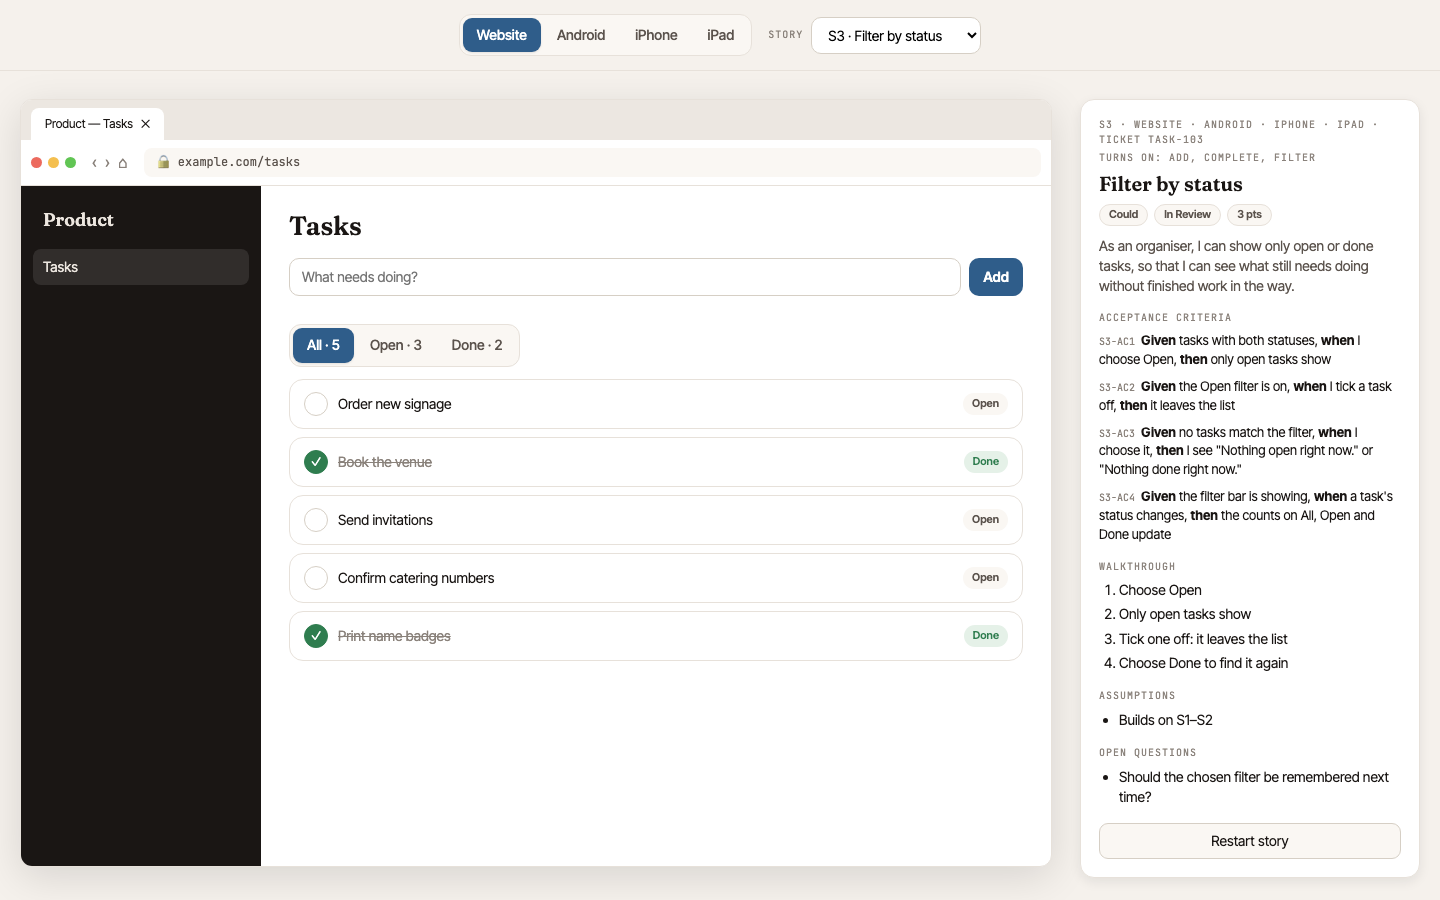
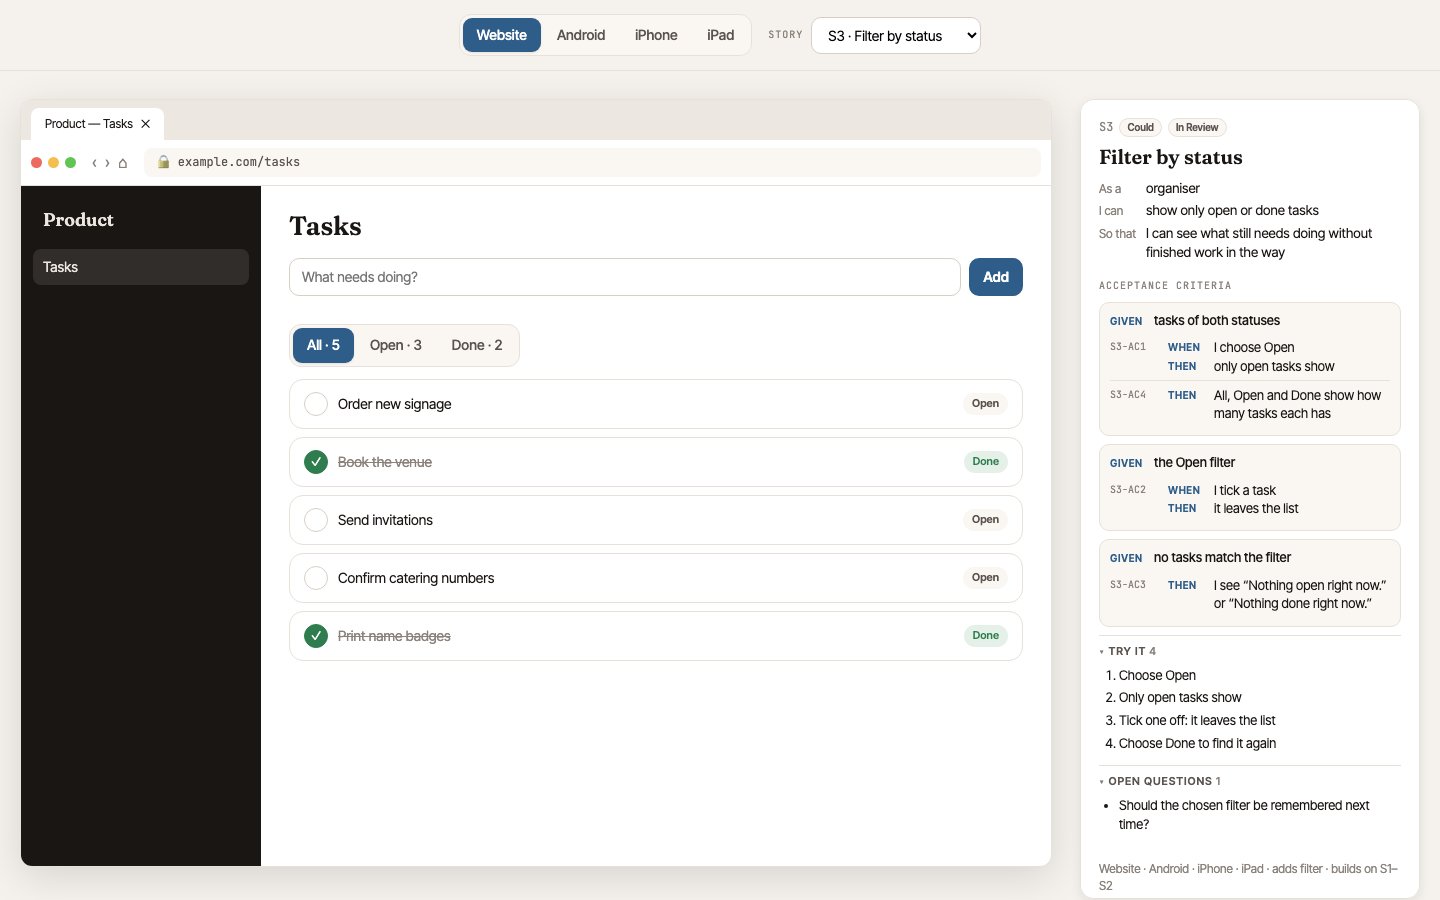
Update README and screenshots for 1.2; gate assignee initials on S5
The 1.2 shell rendered assignee initials in every story; they belong to
S5 (assign), so gate them on can('assign') again.

Changed region(s): [[0.75, 0.1244, 1.0, 0.9956]]

diff --git a/skills/design-by-story/assets/shell.html b/skills/design-by-story/assets/shell.html
@@ -484,7 +484,7 @@ function taskRow(device, t){
   const ui_ = ui[device];
   const check = can('complete')
     ? `<button class="check ${t.done ? 'on' : ''}" aria-pressed="${t.done}" aria-label="Mark ${esc(t.title)} ${t.done ? 'open' : 'done'}" onclick="toggleTask('${device}','${t.id}')">✓</button>` : '';
-  const who = t.who ? `<span class="av" title="${esc(PEOPLE[t.who])}">${t.who}</span>` : '';
+  const who = can('assign') && t.who ? `<span class="av" title="${esc(PEOPLE[t.who])}">${t.who}</span>` : '';
   const assign = can('assign') && device === 'web'
     ? `<select aria-label="Assign ${esc(t.title)}" onchange="assignTask('${device}','${t.id}', this.value)">
         <option value="">Unassigned</option>${Object.entries(PEOPLE).map(([k, n]) => `<option value="${k}" ${t.who === k ? 'selected' : ''}>${esc(n)}</option>`).join('')}

diff --git a/README.md b/README.md
@@ -9,11 +9,15 @@ Pick a device and a story from the top bar. The prototype then:
 
 - resets to that story's data;
 - opens each device on the story's start screen;
-- shows the story alongside: priority, status, story points, tracker ticket, acceptance
-  criteria (with IDs, in Given/When/Then), a walkthrough and notes.
+- shows the story alongside: priority, status, story points and tracker ticket (when
+  set), the story as *As a / I can / So that*, and its acceptance criteria grouped by
+  their shared **Given**, each with its ID and **When** / **Then** lines. A "Try it"
+  walkthrough and open questions follow; out of scope, assumptions and changes (ACs
+  removed, moved or split out) fold away.
 
-Stories build up in the order they'll be built: each story shows only what it and the
-stories before it add, so reviewers never see a later story's controls, labels or
+Stories build up in the order they'll be built: each story lists only what it adds, and
+the shell works out the rest from a single `BUILD_ORDER`. A story shows only what it and
+the stories before it add, so reviewers never see a later story's controls, labels or
 screens early. "All stories" shows the whole product.
 
 Links like `prototype.html#story=S2&device=iphone` open straight to a story on a device.
@@ -26,7 +30,8 @@ The prototype shows stories but never edits them. To add, change, move or split 
 story, ask Claude. Claude can also:
 
 - read stories from a tracker (Jira, Azure DevOps or similar) and, with your go-ahead,
-  write changes back, with a link to each story in the prototype;
+  write changes back (ACs in the same grouped Given / When / Then shape), with a link to
+  each story in the prototype;
 - match your existing designs (screenshots, Figma frames or a design system) instead
   of its own default look.
 
@@ -51,4 +56,5 @@ Then ask Claude for a prototype, e.g. *"Prototype my app by story — here are t
 - `skills/design-by-story/SKILL.md`: workflow, story format, AC rules and how to split stories
 - `skills/design-by-story/references/prototype-spec.md`: frames, tokens, type, components
 - `skills/design-by-story/assets/shell.html`: working template with five example stories (open it to try)
+- `skills/design-by-story/CHANGELOG.md`: what changed in each version
 - `.claude-plugin/`: plugin and marketplace manifests
